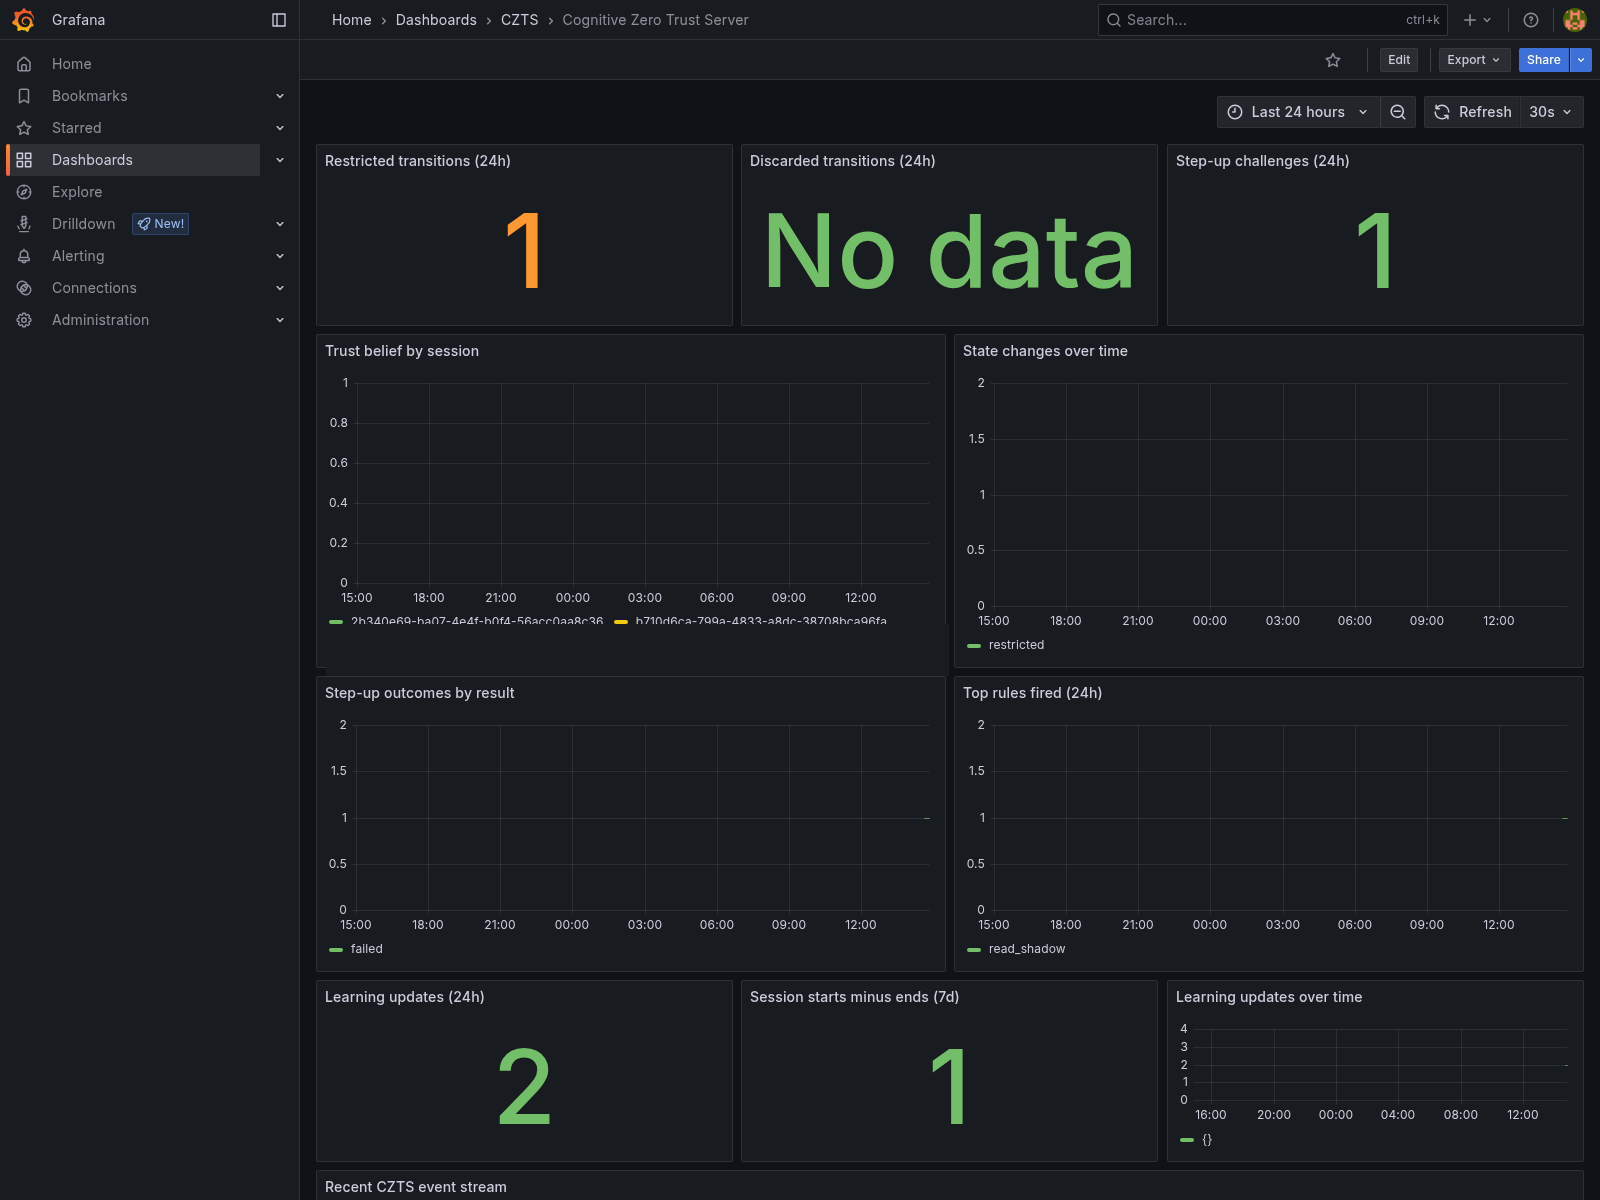
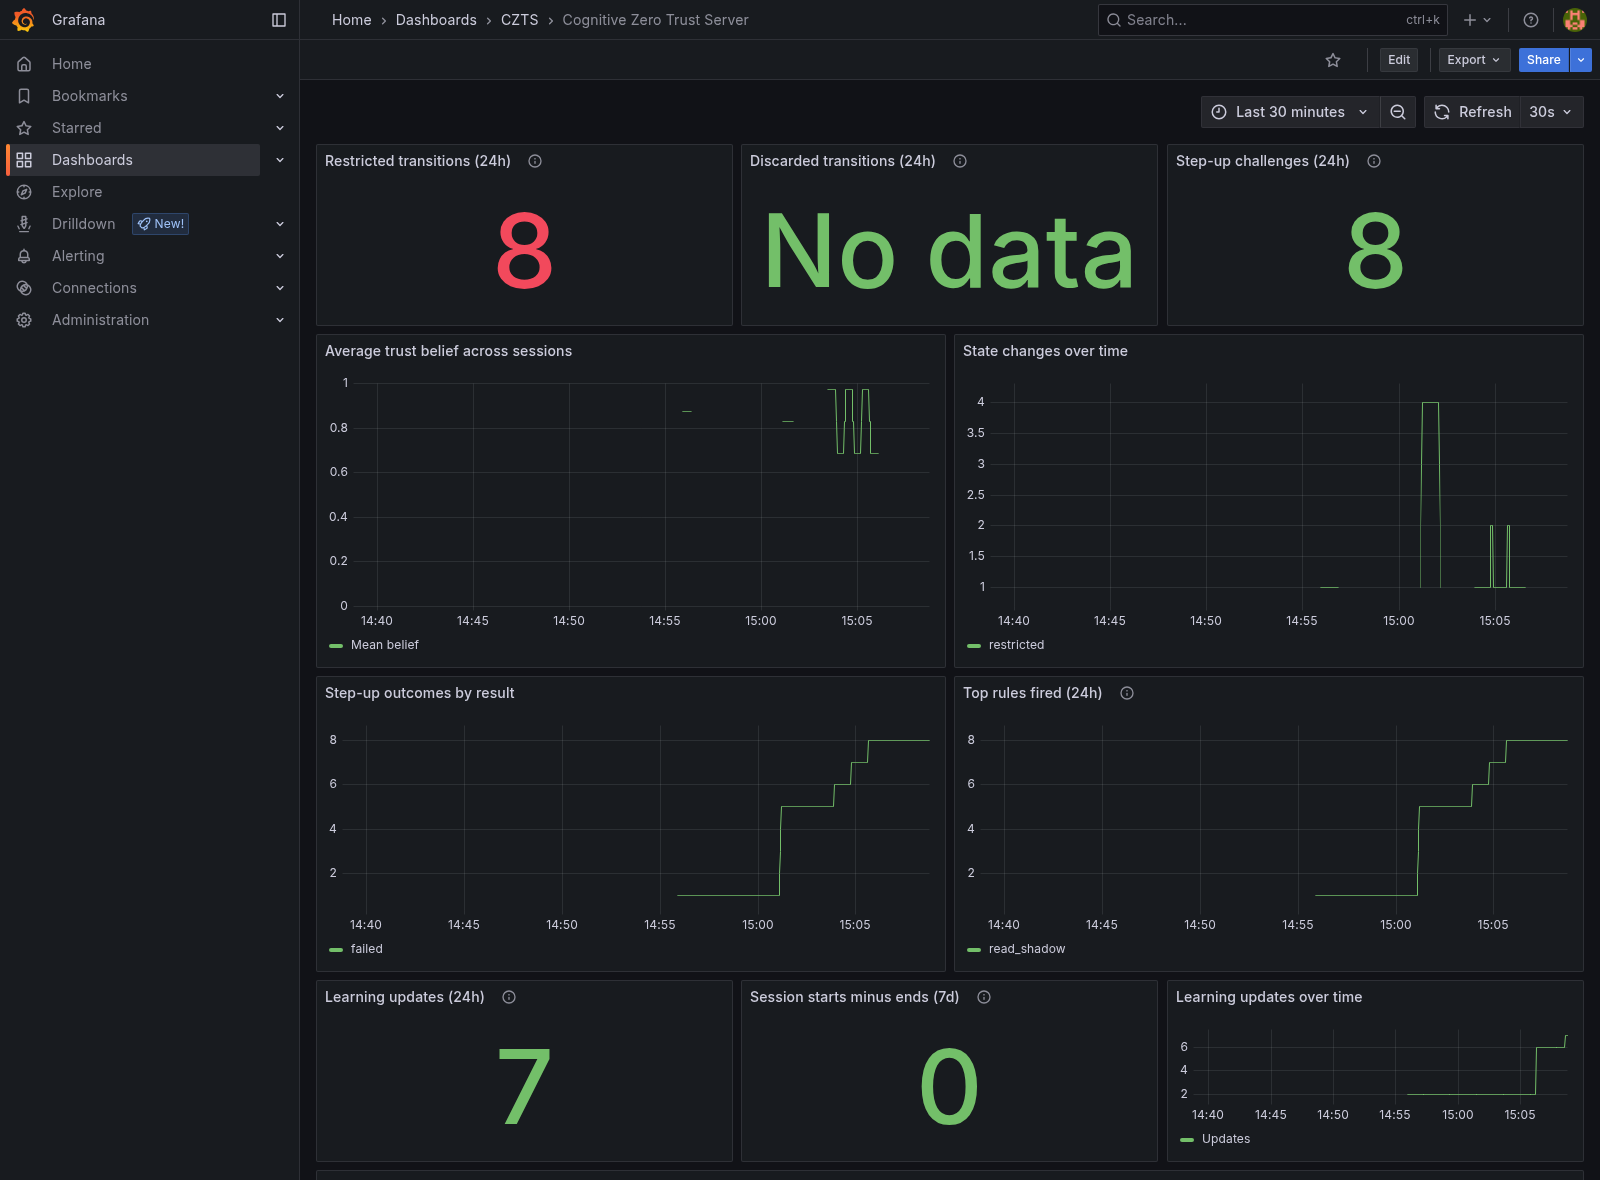
Improve dashboard telemetry and add populated screenshot

diff --git a/docs/results.md b/docs/results.md
@@ -94,7 +94,7 @@ Run the scripted checks with `python eval/scripts/evaluate_stage16.py`.
 
 ![CZTS Grafana dashboard from the clean local run](images/grafana-dashboard.png)
 
-The session-ID legend is redacted from this screenshot.
+The screenshot shows real gateway demo events. The 24-hour cards count completed test/demo activity, while the time-series panels show the most recent 30 minutes. It is not production traffic or a view of currently open SSH sessions.
 
 The PTY capture check used 30 SSH sessions: 20 ordinary command lines and 10 lines containing arrow keys or Tab. Ordinary lines matched exactly in 20/20 cases; all 10 awkward lines failed closed and no test payload was executed. A separate alternate-screen check recorded start/end transitions and trust decay over an observed 0.205 seconds. The SSH setup-plus-`whoami` benchmark measured a median added 1,478.6 ms; the direct and gateway probes ran in different network contexts, so this is not a controlled overhead estimate.
 

diff --git a/README.md b/README.md
@@ -13,7 +13,7 @@ A Windows-hosted SSH gateway that checks commands during a session and adjusts a
 
 ![CZTS Grafana dashboard from the clean local run](docs/images/grafana-dashboard.png)
 
-*Dashboard screenshot; session identifiers redacted.*
+*Live gateway demo telemetry from completed sessions; counters are historical, not active-connection counts.*
 
 ## Start
 
